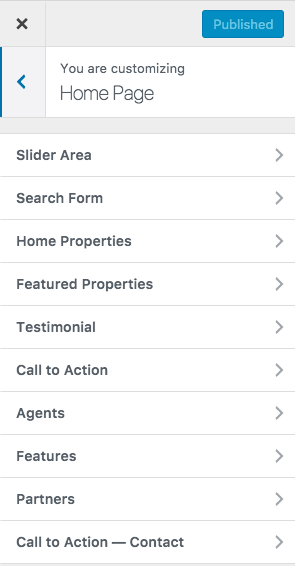
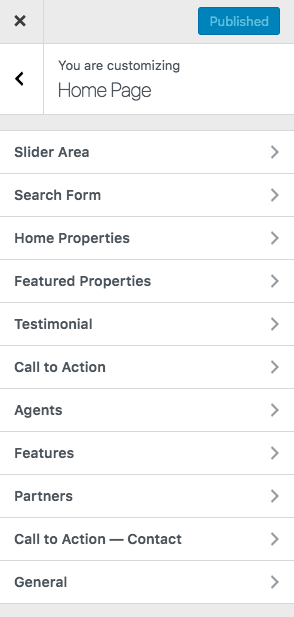
Update: Home Page

diff --git a/docs/homepage-settings-modern.md b/docs/homepage-settings-modern.md
@@ -111,3 +111,11 @@ To add features navigate to **Dashboard → Pages** and edit the page which is a
 On the page edit screen you will have the option to add/remove/change the information of the Features.
 
 ![Home Page Features](images/home-setup/how-to-add-features-modern.png)
+
+### **General**
+
+In this section, you can find one of the most important settings of the homepage and that is **Sections Border Angle** which gives you the control over diagonal lines. 
+
+You can choose from two variations **Diagonal** or **Flat**.
+
+![Home Page General](images/home-setup/homepage-general.png)
